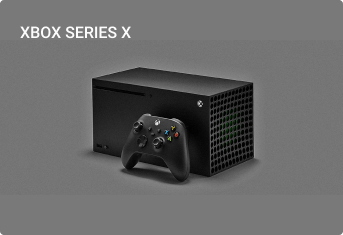
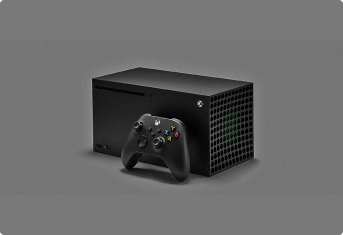
feat: add tablet styles for Favourites component

Changed region(s): [[0.0583, 0.0894, 0.379, 0.1787]]

diff --git a/src/components/Main/Favourites/Favourites.jsx b/src/components/Main/Favourites/Favourites.jsx
@@ -1,6 +1,8 @@
 import styles from "./Favourites.module.scss";
 import ps from "../../../assets/favourites/play-station.png";
+import psDesktop from "../../../assets/favourites/ps5-desktop.png";
 import xbox from "../../../assets/favourites/xbox-x.png";
+import xboxDesktop from "../../../assets/favourites/xbox-x-desktop.png";
 import nintendo from "../../../assets/favourites/nintendo-switch.png";
 import psp from "../../../assets/favourites/ps-portable.png";
 
@@ -10,28 +12,41 @@ const Favourites = () => {
             <h2 className={styles.title}>
                 Популярні категорії нашого магазину
             </h2>
-            <div className={styles.category}>
-                <img className={styles["category-cover"]} src={ps} alt="Play Station 5" />
-                <div className={styles.shade}>
-                    <button className={styles["category-button"]}>Перейти</button>
+            <div className={styles.categories}>
+                <div className={styles.category}>
+                    <h3 className={styles["category-title"]}>play station 5</h3>
+                    <picture className={styles["category-media"]}>
+                        <source media="(max-width: 760px)" srcSet={ps} />
+                        <img className={styles["category-cover"]} src={psDesktop} alt="Play Station 5" />
+                    </picture>
+                    <div className={styles.shade}>
+                        <button className={styles["category-button"]}>Перейти</button>
+                    </div>
                 </div>
-            </div>
-            <div className={styles.category}>
-                <img className={styles["category-cover"]} src={xbox} alt="Xbox X" />
-                <div className={styles.shade}>
-                    <button className={styles["category-button"]}>Перейти</button>
+                <div className={styles.category}>
+                    <h3 className={styles["category-title"]}>xbox series x</h3>
+                    <picture className={styles["category-media"]}>
+                        <source media="(max-width: 760px)" srcSet={xbox} />
+                        <img className={styles["category-cover"]} src={xboxDesktop} alt="Xbox X" />
+                    </picture>
+
+                    <div className={styles.shade}>
+                        <button className={styles["category-button"]}>Перейти</button>
+                    </div>
                 </div>
-            </div>
-            <div className={styles.category}>
-                <img className={styles["category-cover"]} src={nintendo} alt="Nintendo Switch" />
-                <div className={styles.shade}>
-                    <button className={styles["category-button"]}>Перейти</button>
+                <div className={styles.category}>
+                    <h3 className={styles["category-title"]}>nintendo switch</h3>
+                    <img className={styles["category-cover"]} src={nintendo} alt="Nintendo Switch" />
+                    <div className={styles.shade}>
+                        <button className={styles["category-button"]}>Перейти</button>
+                    </div>
                 </div>
-            </div>
-            <div className={styles.category}>
-                <img className={styles["category-cover"]} src={psp} alt="Sony Playstation Portable" />
-                <div className={styles.shade}>
-                    <button className={styles["category-button"]}>Перейти</button>
+                <div className={styles.category}>
+                    <h3 className={styles["category-title"]}>play station vr2</h3>
+                    <img className={styles["category-cover"]} src={psp} alt="Sony Playstation VR2" />
+                    <div className={styles.shade}>
+                        <button className={styles["category-button"]}>Перейти</button>
+                    </div>
                 </div>
             </div>
         </section>

diff --git a/src/components/Main/Favourites/Favourites.module.scss b/src/components/Main/Favourites/Favourites.module.scss
@@ -2,7 +2,6 @@
     display: flex;
     flex-direction: column;
     width: 90%;
-    height: 1100px;
     gap: 24px;
     margin-top: 40px;
 
@@ -12,43 +11,106 @@
         line-height: 32px;
     }
 
-    .category {
+    .categories {
         display: flex;
-        position: relative;
-        width: 100%;
-        height: 235px;
-        border-radius: 5px;
-        overflow: hidden;
+        flex-direction: column;
+        gap: 24px;
 
-        .category-cover {
+        .category {
+            display: flex;
+            position: relative;
             width: 100%;
-            height: 100%;
-        }
+            height: 245px;
+            border-radius: 5px;
+            overflow: hidden;
 
-        .shade {
-            position: absolute;
-            width: 100%;
-            height: 100%;
-            background: rgba(31, 32, 37, 0.8);
-            transition: opacity 0.5s;
-
-            .category-button {
-                all: unset;
+            .category-title{
                 position: absolute;
-                top: 50%;
-                left: 50%;
-                transform: translateY(-50%) translateX(-50%);
-                /* opacity: 0; */
-                visibility: visible;
-                transition: transform 0.3s, opacity 0.3s;
-                font-size: 16px;
-                font-weight: 700;
-                padding: 12px 48px;
-                z-index: 1;
-                color: #ffffff;
-                background-color: #358CF7;
-                border-color: #358CF7;
-                border-radius: 4px;
+                color: #FDFDFD;
+                left: 5%;
+                top: 10%;
+                font-size: calc(11px + 1vw);
+                font-weight: 500;
+                text-transform: uppercase;
+            }
+
+            .category-media {
+                display: flex;
+                width: 100%;
+                height: 100%;
+            }
+
+            .category-cover {
+                width: 100%;
+                height: 100%;
+                object-fit: cover;
+            }
+
+            .shade {
+                position: absolute;
+                width: 100%;
+                height: 100%;
+                background: rgba(31, 32, 37, 0.8);
+                transition: opacity 0.5s;
+                display: none; // turn on
+
+                .category-button {
+                    all: unset;
+                    position: absolute;
+                    top: 50%;
+                    left: 50%;
+                    transform: translateY(-50%) translateX(-50%);
+                    /* opacity: 0; */
+                    visibility: visible;
+                    transition: transform 0.3s, opacity 0.3s;
+                    font-size: 16px;
+                    font-weight: 700;
+                    padding: 12px 48px;
+                    z-index: 1;
+                    color: #ffffff;
+                    background-color: #358CF7;
+                    border-color: #358CF7;
+                    border-radius: 4px;
+                }
+            }
+        }
+    }
+
+
+}
+
+
+@media (min-width: 768px) {
+    .favourites {
+
+        .categories {
+            display: grid;
+            grid-template-columns: 1.5fr 1fr 1fr;
+            grid-template-rows: repeat(2, 1fr);
+            grid-template-areas:
+                "ps-5 xbox-x xbox-x"
+                "ps-5 nintendo ps-vr";
+
+
+            .category {
+                display: grid;
+                height: 100%;
+            }
+
+            .category:nth-child(1) {
+                grid-area: ps-5;
+            }
+
+            .category:nth-child(2) {
+                grid-area: xbox-x;
+            }
+
+            .category:nth-child(3) {
+                grid-area: nintendo;
+            }
+
+            .category:nth-child(4) {
+                grid-area: ps-vr;
             }
         }
     }

diff --git a/src/components/Main/Advantage/Advantage.module.scss b/src/components/Main/Advantage/Advantage.module.scss
@@ -1,9 +1,9 @@
 .advantage {
     display: grid;
-    grid-template-columns: repeat(4, 1fr);
+    grid-template-columns: repeat(2, 1fr);
     gap: 20px;
     width: 90%;
-    height: 120px;
+    height: 250px;
     margin-top: 40px;
     text-align: center;
 
@@ -28,10 +28,17 @@
             padding: 0 5px;
         }
 
-        .description{
+        .description {
             color: #787D88;
             font-size: 14px;
             padding: 0 5px;
         }
+    }
+}
+
+@media(min-width: 768px) {
+    .advantage {
+        grid-template-columns: repeat(4, 1fr);
+        height: 120px;
     }
 }
